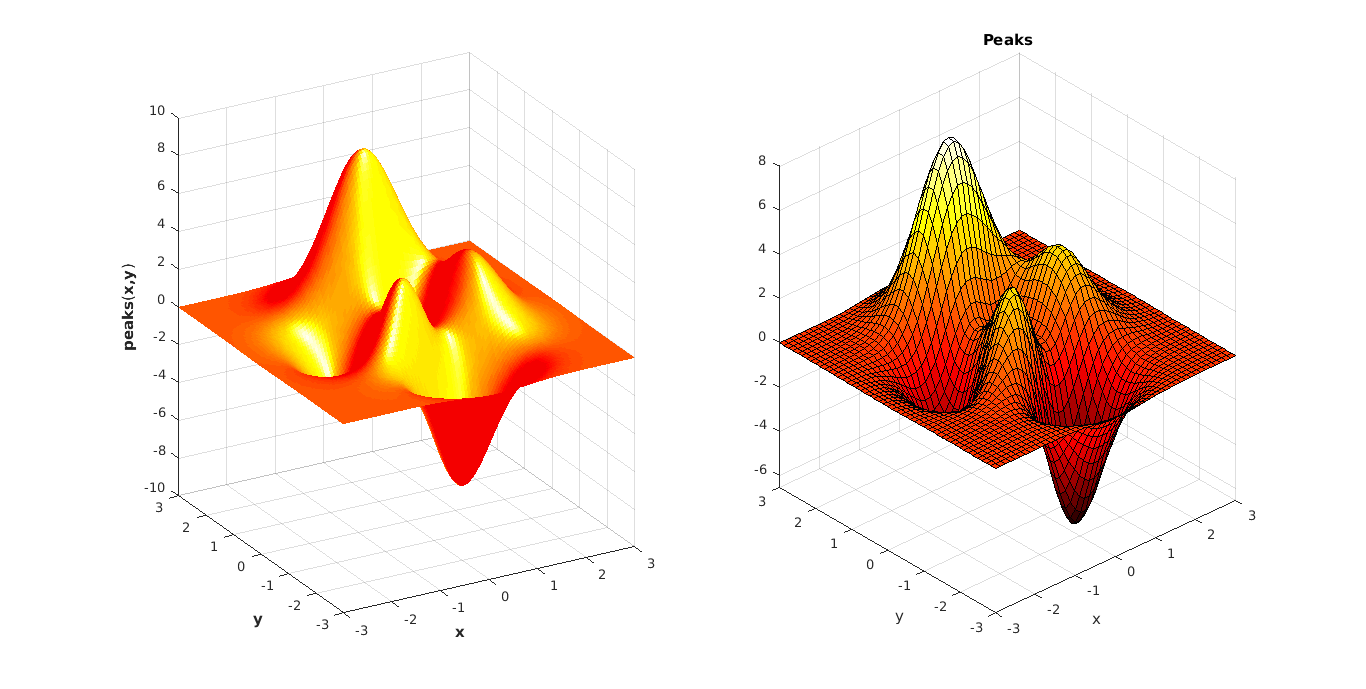
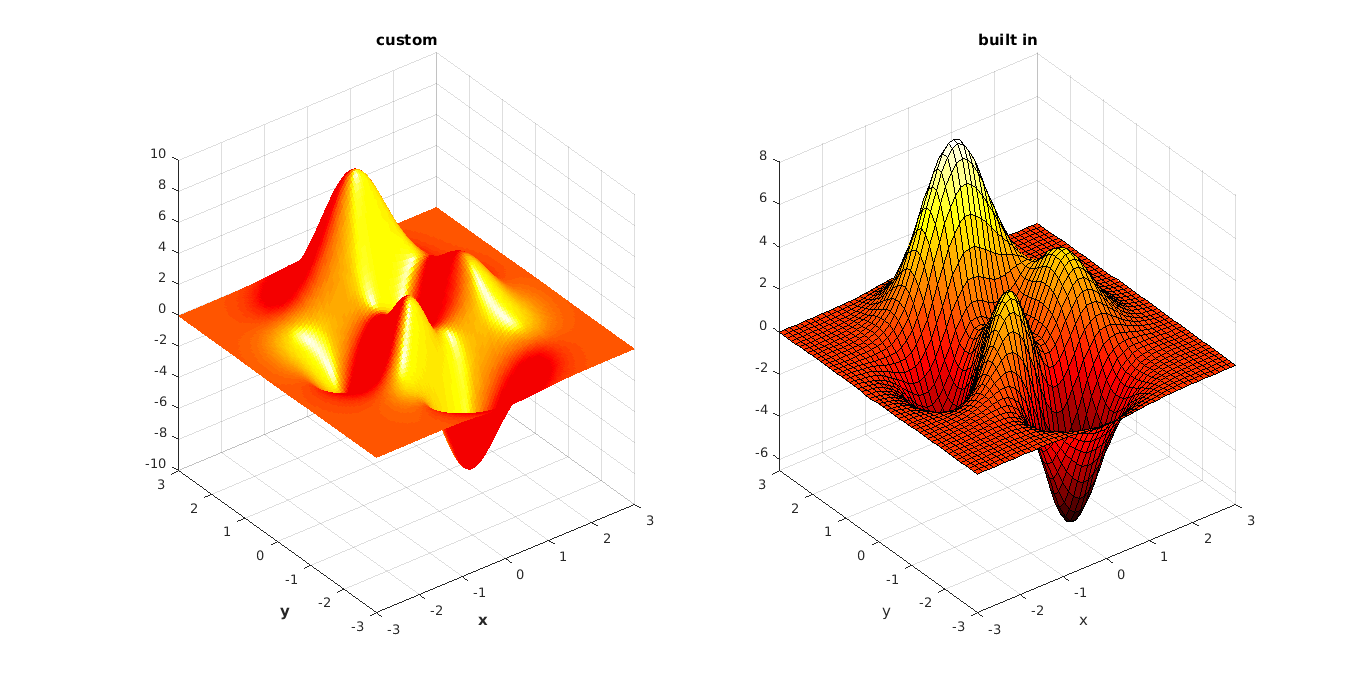
bugs corrected

diff --git a/lez4/peaksing.m b/lez4/peaksing.m
@@ -1,3 +1,5 @@
+clear;
+close all;
 [x,y]=meshgrid(-3:.05:3,-3:.05:3);
 z=peaks(x,y);
 subplot(1,2,1)
@@ -7,6 +9,10 @@ axis([-3 3 -3 3 -10 10]); %X,Y,Z axis limits
 shading flat %remove grid lines
 xlabel('{\bfx}'); %{\bf...} set labels in bold font
 ylabel('{\bfy}');
-zlabel('{\bfpeaks}({\bfx,y})')
+title('custom');
+%zlabel('{\bfpeaks built in}({\bfx,y})')
 subplot(1,2,2)
+xlabel('{\bfx}'); %{\bf...} set labels in bold font
+ylabel('{\bfy}');
 peaks
+title('built in');

diff --git a/lez4/fitting.m b/lez4/fitting.m
@@ -3,8 +3,8 @@ close all;
 load('fitdata.mat');
 plot(x,y,'r.','DisplayName','data');
 hold on
-f = fittype('a*sinc(b*x)+c');
-yfit=fit(x,y,f)
+f = fittype('a*sinc(b*(x+c))+d');
+yfit=fit(x,y,f,'StartPoint',[10, 5, 0, 0])
 % yfit = fit(x,y,f,'StartPoint',[11, 4*pi], 'Lower', [8, pi], 'Upper', [15, 6*pi]);% 'Normalize', 'on')
 % yfit=fit(x,y,f,'Method','NonlinearLeastSquares')
 plot(x,yfit(x),'k','DisplayName','fit')
